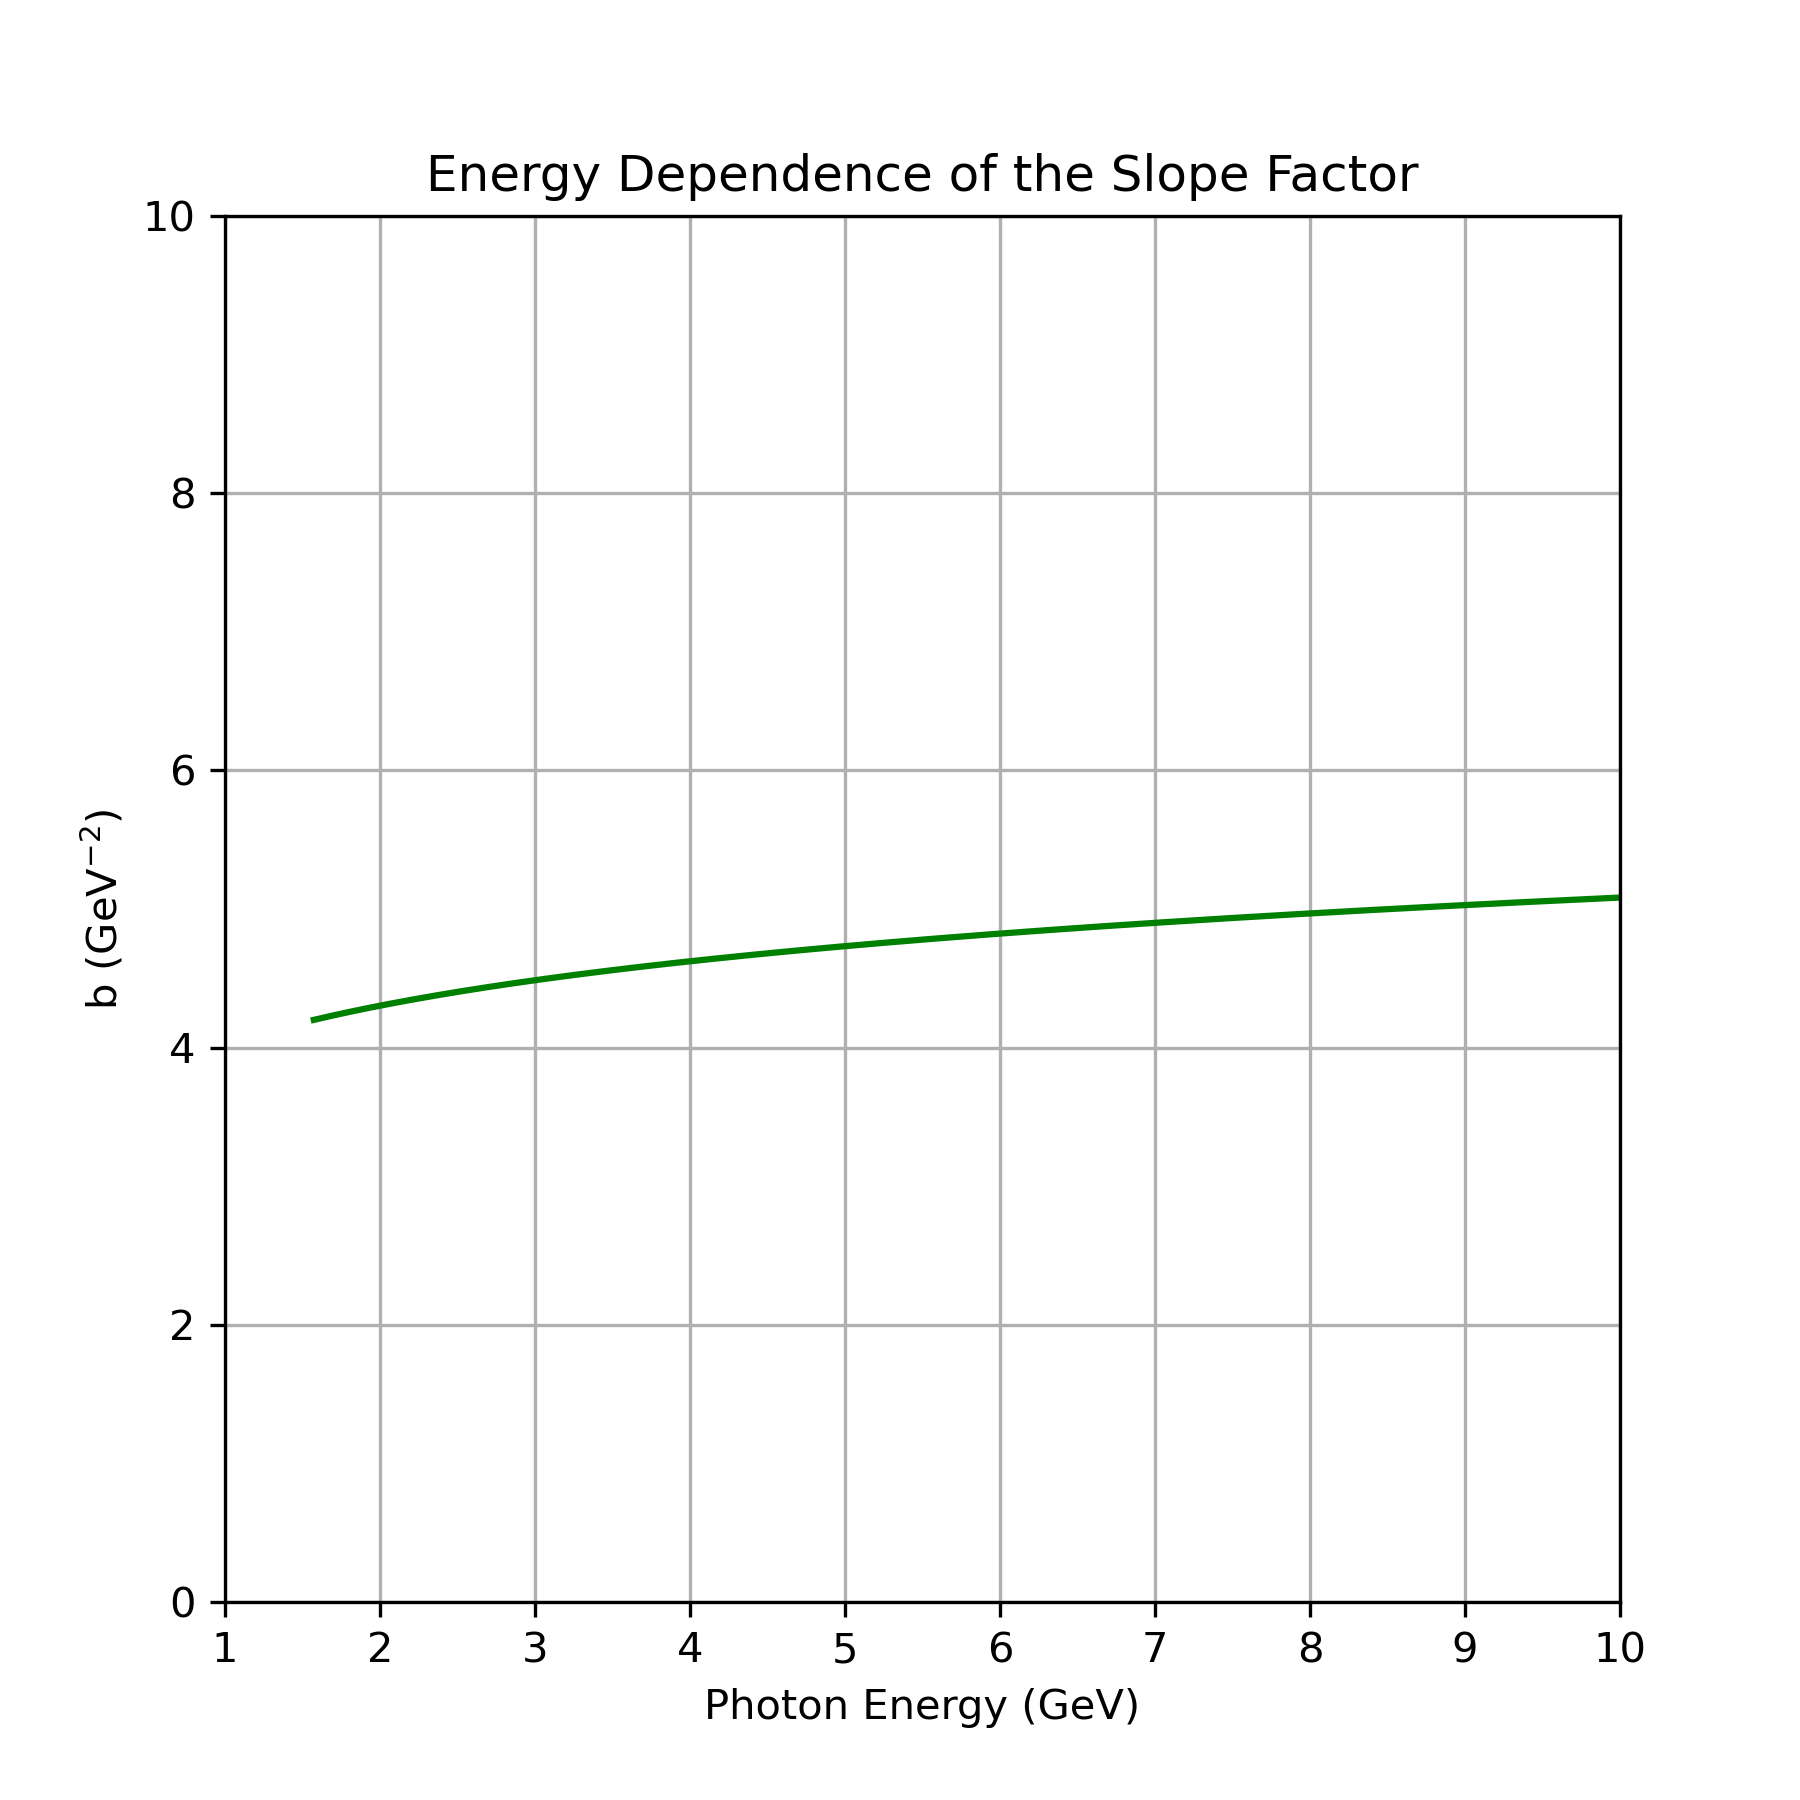
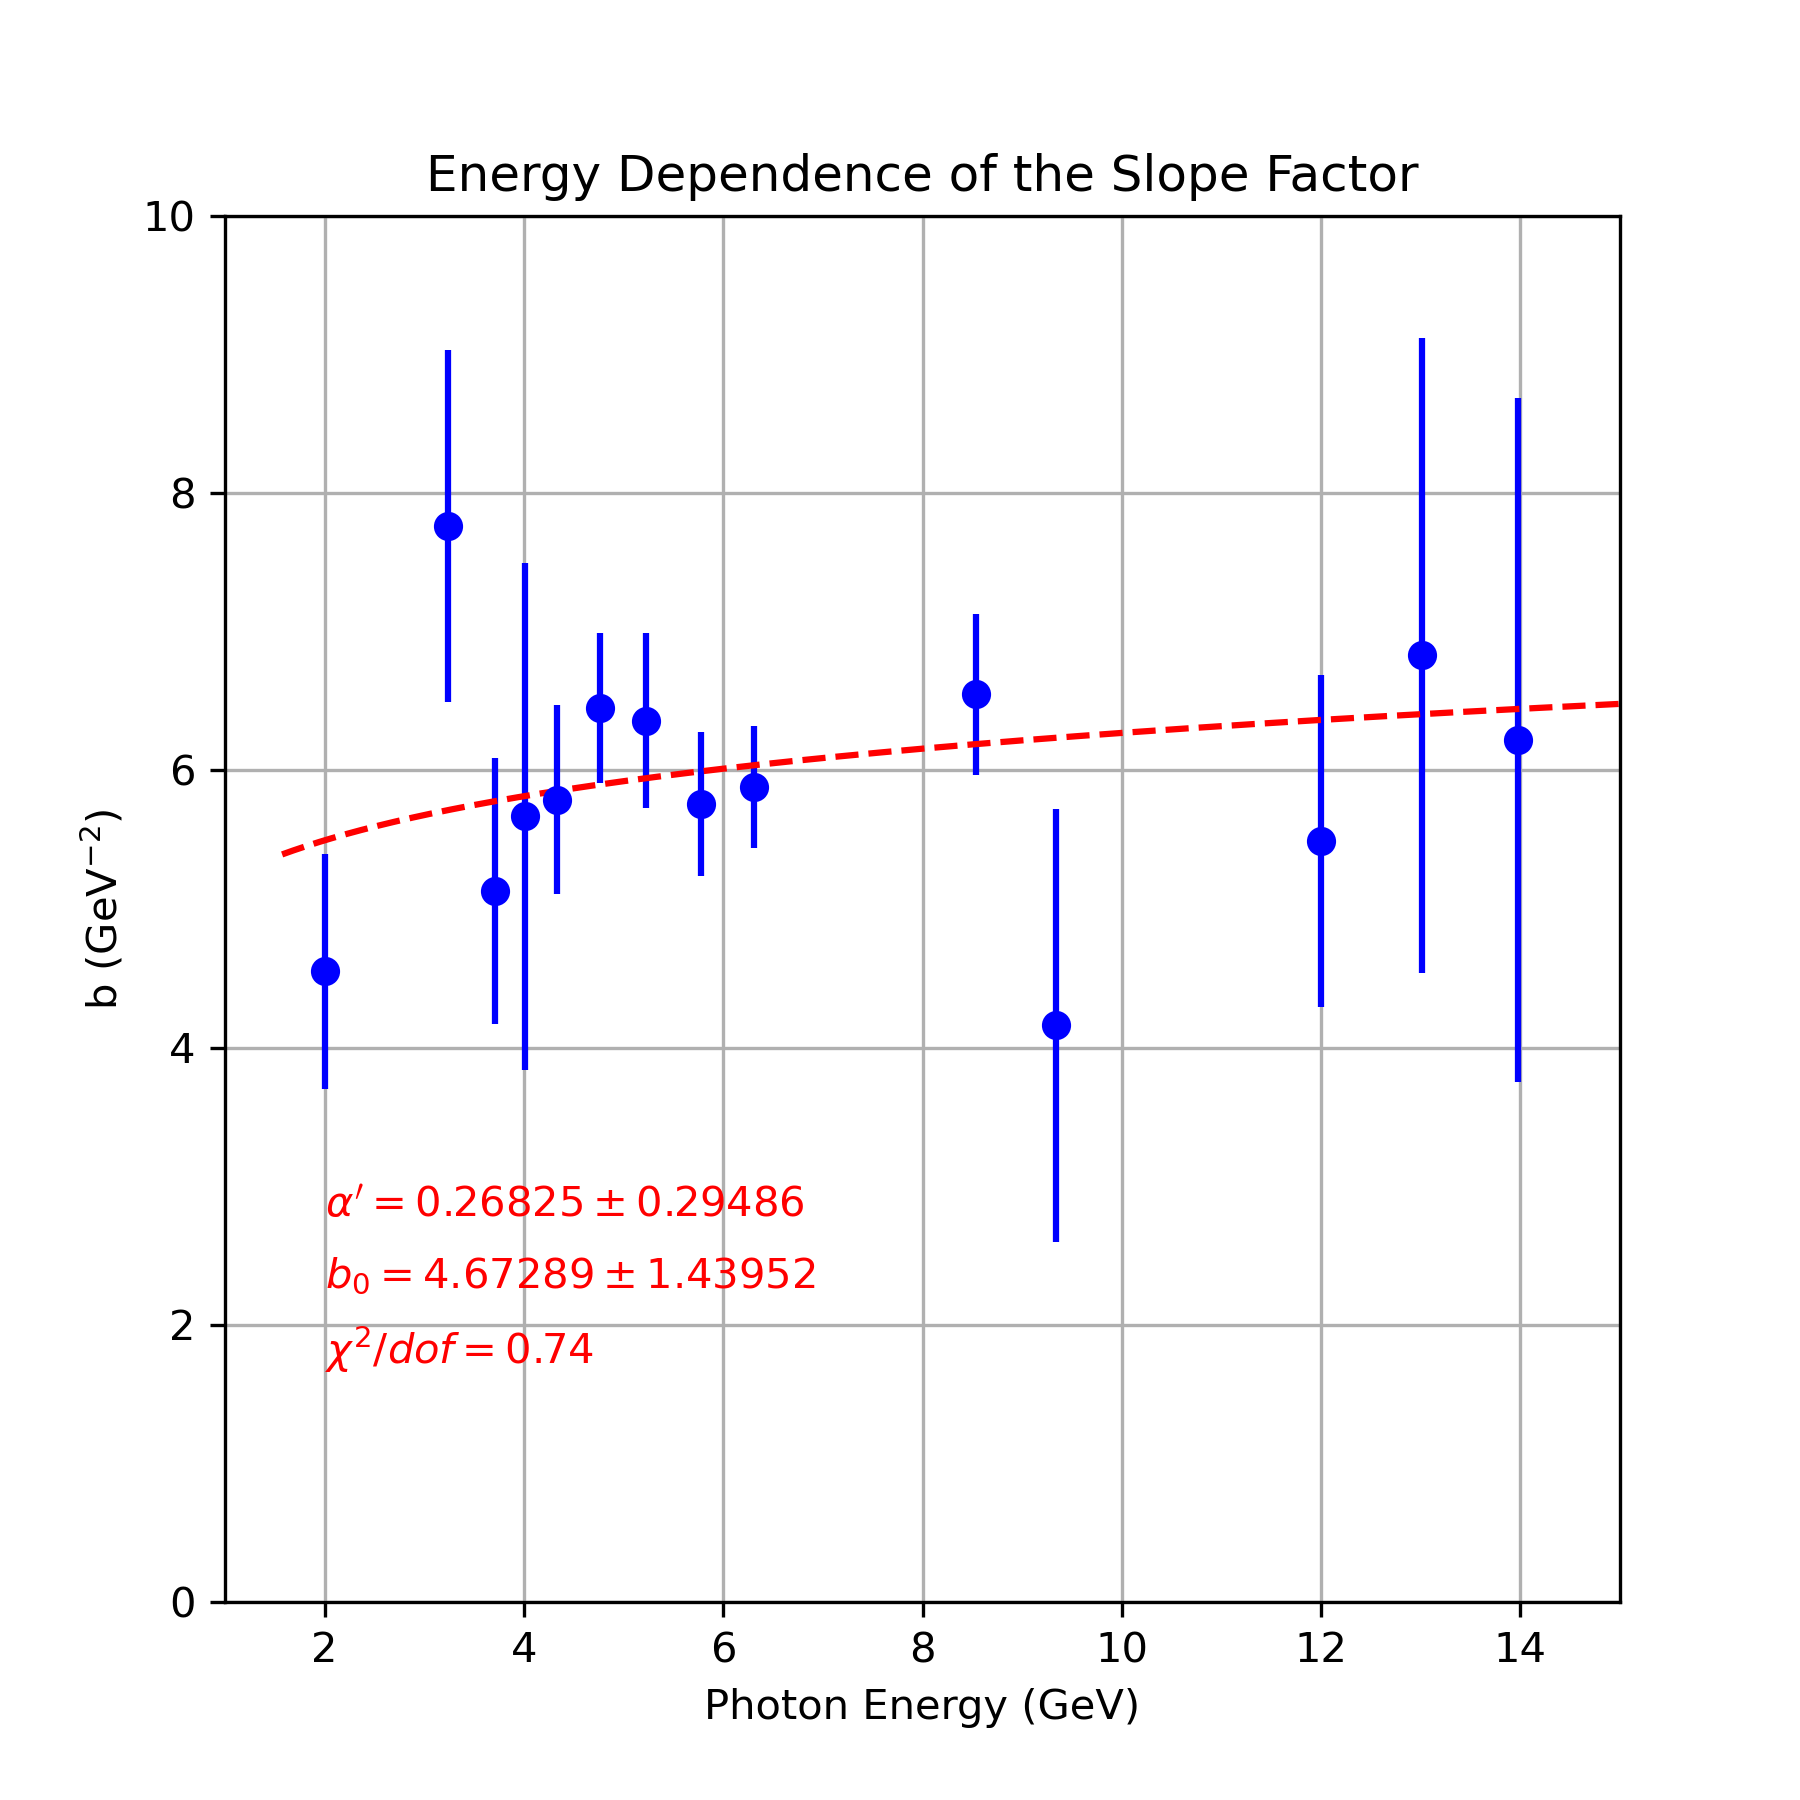
Add and fit the data points of slope factor

diff --git a/plot/vm_d/theory/parameterization/fit.py b/plot/vm_d/theory/parameterization/fit.py
@@ -14,9 +14,12 @@ def kallen(s, m1, m2):
 def fit_function(x, c):
     return c*x
 
-# Load data from the text file
+def slope_function(s, alpha, beta):
+    return 2*alpha*np.log(s) + beta
+
+# dsdt
 data = np.loadtxt('dsdt.txt', delimiter=',')
-error = np.loadtxt('sigma.txt', delimiter=',')
+error = np.loadtxt('dsdt_sigma.txt', delimiter=',')
 energy = data[:, 0]
 s = mass_proton**2 + 2*mass_proton*energy
 q_photon = np.sqrt(kallen(s, mass_proton**2, mass_photon**2))/(2*np.sqrt(s))
@@ -35,7 +38,6 @@ coefficients = popt
 fit_y = fit_function(x_fit, *coefficients)
 chisquared_per_dof = np.sum(((dsdt_fit - fit_y) / dsdt_error_fit)**2) / (len(dsdt_fit) - len(coefficients))
 
-# Create the plot
 plt.figure(figsize=(6, 6), dpi=300)
 energy_plot = np.linspace(1.5, 10.0, 1000)
 s_plot = mass_proton**2 + 2*mass_proton*energy_plot
@@ -68,21 +70,34 @@ x_theory = (q_phi_theory/q_photon_theory)**2
 dsdt_theory = fit_function(x_theory, *coefficients)
 print("Theoretical ds/dt values at energies", energy_theory, "are:", dsdt_theory)
 
-# Plot the energy dependence of the slope factor
+# slope factor
+s           = np.loadtxt('slope.txt')[:, 0]
+slope       = np.loadtxt('slope.txt')[:, 1]
+slope_error = np.loadtxt('slope.txt')[:, 2]
+energy_slope = (s - mass_proton**2) / (2*mass_proton)
 plt.figure(figsize=(6, 6), dpi=300)
-energy_plot = np.linspace(energy_min, 10.0, 1000)
+plt.errorbar(energy_slope, slope, yerr=slope_error, color='b', label='Data Points', fmt='o')
+
+popt, pcov = curve_fit(slope_function, s, slope, sigma=slope_error, absolute_sigma=True)
+coefficients = popt
+fit_y = slope_function(s, *coefficients)
+chisquared_per_dof = np.sum(((slope - fit_y) / slope_error)**2) / (len(slope) - len(coefficients))
+
+energy_plot = np.linspace(energy_min, 20.0, 1000)
 s_plot = mass_proton**2 + 2*mass_proton*energy_plot
-b_plot = 2*0.27*np.log(s_plot/s_min) + 4.2
-plt.plot(energy_plot, b_plot, color='g', linestyle='-')
+plt.plot(energy_plot, slope_function(s_plot, *coefficients), color='r', linestyle='--', label='Fitted Curve')
+plt.text(2, 3, r'$\alpha ^{\prime} =%.5f\pm%.5f$' % (coefficients[0], np.sqrt(pcov[0][0])), fontsize=10, color='r', ha='left', va='top')
+plt.text(2, 2.5, r'$b_0 =%.5f\pm%.5f$' % (coefficients[1], np.sqrt(pcov[1][1])), fontsize=10, color='r', ha='left', va='top')
+plt.text(2, 2.0, r'$\chi^2/dof=%.2f$' % chisquared_per_dof, fontsize=10, color='r', ha='left', va='top')
 plt.title('Energy Dependence of the Slope Factor')
 plt.xlabel('Photon Energy (GeV)')
 plt.ylabel(r'b (GeV$^{-2}$)')
-plt.xlim(1.0, 10.0)
+plt.xlim(1.0, 15.0)
 plt.ylim(0, 10)
 plt.grid()
 plt.savefig('slope_factor.png')
 plt.show()
 plt.close()
 
-b_theory = 2*0.27*np.log(s_theory/s_min) + 4.2
+b_theory = slope_function(s_theory, *coefficients)
 print("Theoretical slope factor values at energies", energy_theory, "are:", b_theory)
